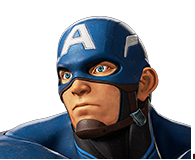
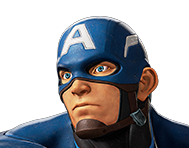
added all char portraits, some need resizing

diff --git a/example.html b/example.html
@@ -27,5 +27,23 @@
     <img src="./Digital/spiderman.png">
     <img src="./Digital/strange.png">
     <img src="./Digital/buzz.png">
+    <img src="./Digital/cptmarvel.png">
+    <img src="./Digital/dormammu.png">
+    <img src="./Digital/nemesis.png">
+    <img src="./Digital/spencer.png">
+    <img src="./Digital/strider.png">
+    <img src="./Digital/gamora.png">
+    <img src="./Digital/jedah.png">
+    <img src="./Digital/thanos.png">
+    <img src="./Digital/gr.png">
+    <img src="./Digital/ryu.png">
+    <br />
+    <img src="./Digital/firebrand.png">
+    <br />
+    <img src="./Digital/thor.png">
+    <br />
+    <img src="./Digital/dante.png">
+    <br />
+    <img src="./Digital/chris.png">
 </body>
 </html>
